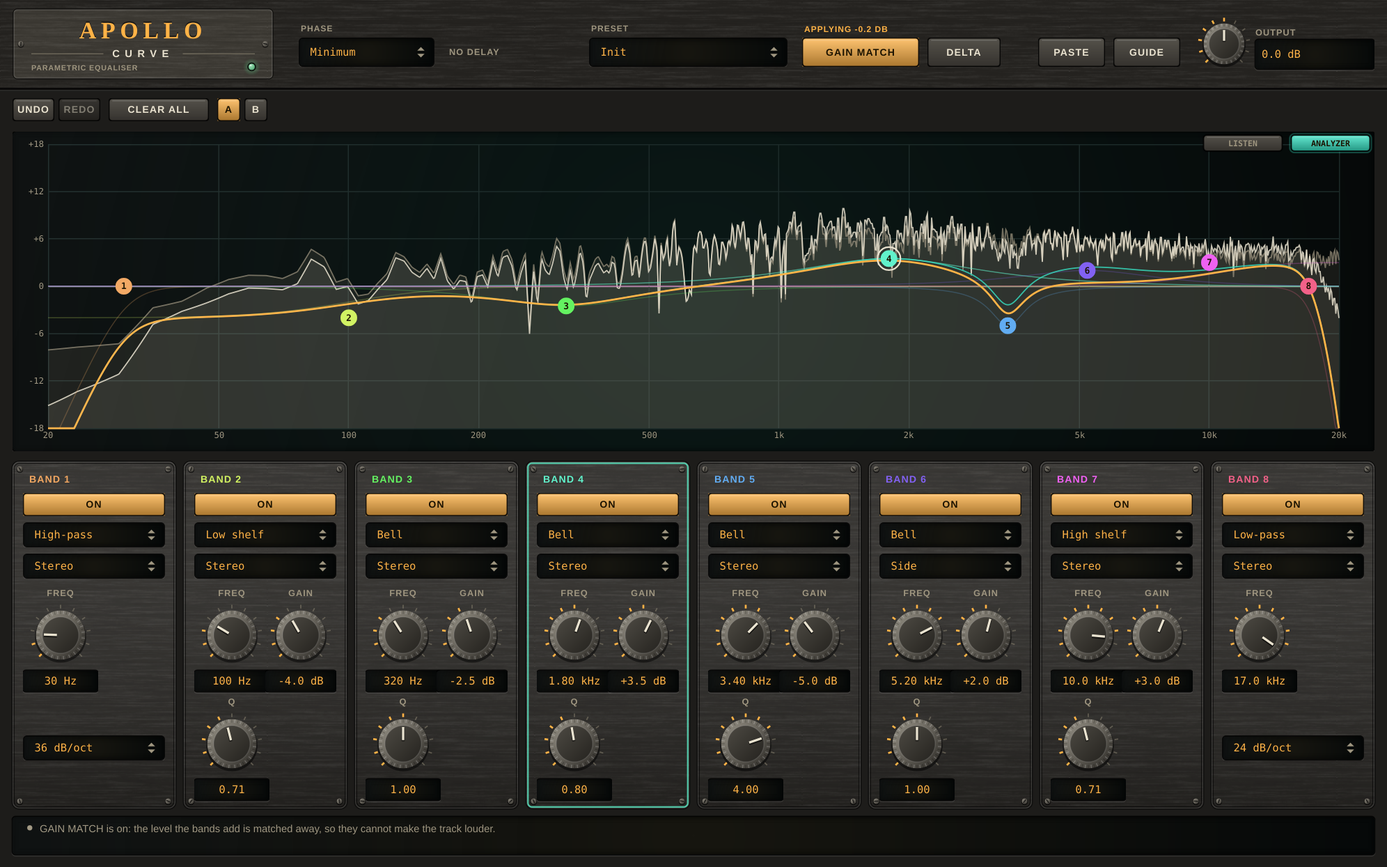
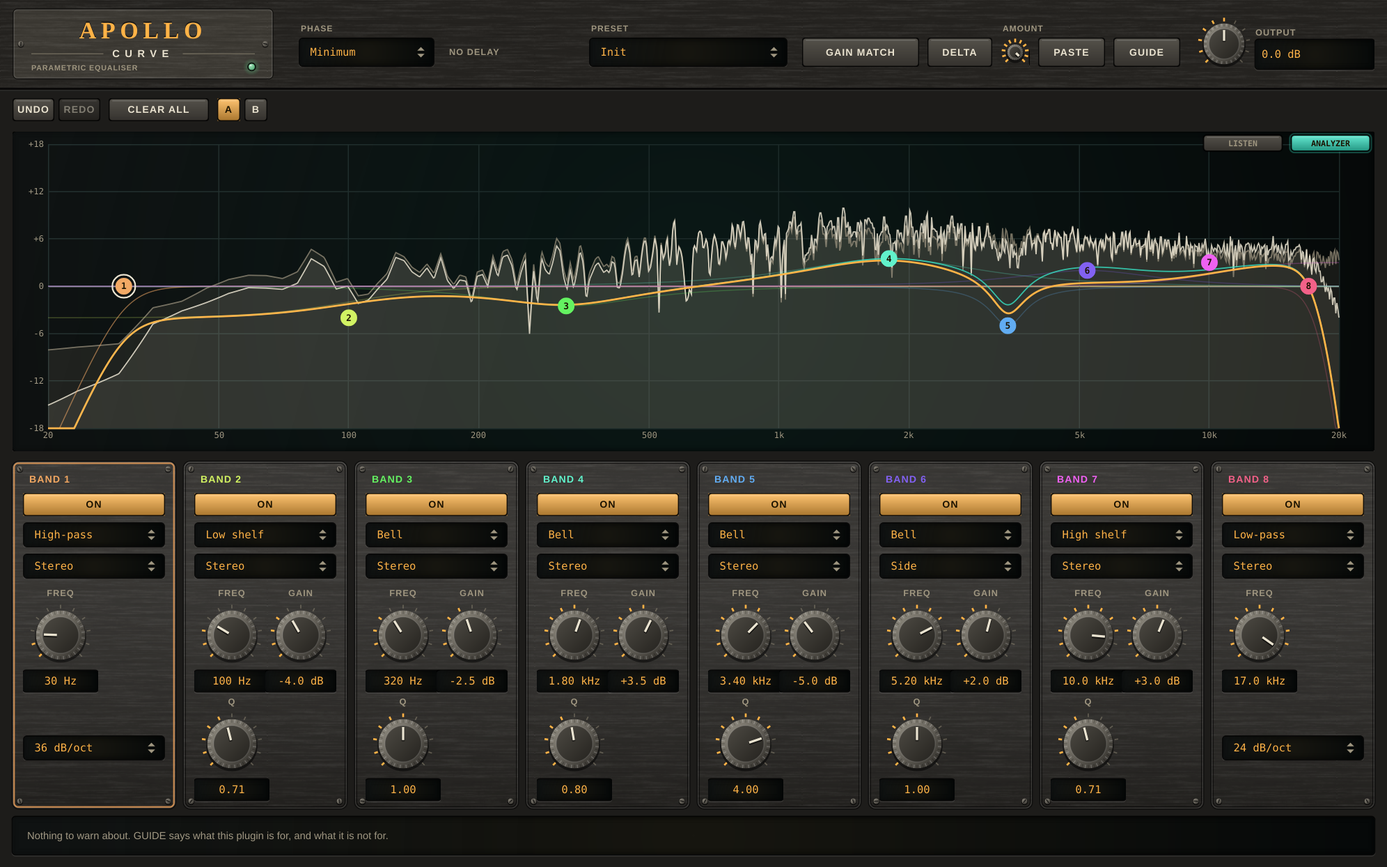
Apollo: PASTE AMOUNT knob scales the gain of pasted bells and shelves
A non-automatable parameter (version 2, default 100 %, so old sessions paste as before) that multiplies the gain PASTE takes from the link text; frequency, width, channels and cuts are unchanged and bands already placed do not move. The strip says the percent when it is below 100.

Claude-Session: https://claude.ai/code/session_01PJDLAgLfcFaZRPW2gHfSC8

Changed region(s): [[0.0311, 0.9462, 0.3424, 0.9767], [0.5602, 0.0305, 0.6847, 0.0916], [0.7159, 0.0305, 0.747, 0.0916]]

diff --git a/plugins/apollo/Tests/UiCheck.cpp b/plugins/apollo/Tests/UiCheck.cpp
@@ -23,7 +23,7 @@ int main()
     proc.prepareToPlay (48000.0, 512);
 
     check (proc.getName() == juce::String (gui::kProjectWord) + " " + gui::kPluginWord, "the reported name is the nameplate's two words");
-    check (proc.getParameters().size() == 3 + 7 * kBands, fmt ("%d parameters: phase, output, gain match and 7 for each of %d bands", proc.getParameters().size(), kBands));
+    check (proc.getParameters().size() == 4 + 7 * kBands, fmt ("%d parameters: phase, output, gain match, paste amount and 7 for each of %d bands", proc.getParameters().size(), kBands));
     check (typeNames.size() == kNumTypes && targetNames.size() == kNumTargets && slopeNames.size() == kNumSlopes && phaseNames.size() == kNumPhases, "the choice lists match the engine's");
     const auto d = readParams (proc.apvts);
     bool defaultsOk = d.phase == Phase::minimum && std::fabs (d.outDb) < 1e-4 && ! d.match;
@@ -108,7 +108,7 @@ int main()
                                           juce::Time::getCurrentTime(), view.listenButton().getCentre(), juce::Time::getCurrentTime(), 1, false));
         check (proc.engine.listen.load() == 2 && ui::hasNote (editor.notes(), "LISTEN is on", ui::Severity::warning), "the LISTEN button plays the selected band alone, and a warning says so");
         view.select (5);
-        check (proc.engine.listen.load() == 5 && proc.getParameters().size() == 3 + 7 * kBands, "LISTEN follows the selected band and is not a parameter");
+        check (proc.engine.listen.load() == 5 && proc.getParameters().size() == 4 + 7 * kBands, "LISTEN follows the selected band and is not a parameter");
     }
 
     check (proc.engine.listen.load() == -1, "closing the editor ends LISTEN");
@@ -268,7 +268,7 @@ int main()
             editor.deltaButton.triggerClick();
             juce::MessageManager::getInstance()->runDispatchLoopUntil (100);
             check (q.engine.delta.load() && ui::hasNote (editor.notes(), "DELTA is on", ui::Severity::warning), "DELTA turns the engine's monitor on, and a warning says you do not hear your track");
-            check (! (bool) q.apvts.state.getProperty ("delta", false) && q.getParameters().size() == 3 + 7 * kBands, "DELTA is not a parameter and not in the state: it is never saved or automated");
+            check (! (bool) q.apvts.state.getProperty ("delta", false) && q.getParameters().size() == 4 + 7 * kBands, "DELTA is not a parameter and not in the state: it is never saved or automated");
         }
         check (! q.engine.delta.load(), "closing the editor ends DELTA: monitoring never outlives its window");
 
@@ -499,6 +499,77 @@ int main()
         check (same, "UNDO takes a preset back as one step");
     }
 
+    // PASTE AMOUNT: the share of a pasted bell's or shelf's gain. It scales the gain only, and what is already placed does not move.
+    std::printf ("\nPASTE AMOUNT\n");
+    {
+        using K = pdsp::LinkBand::Kind;
+        using P = pdsp::LinkBand::Place;
+        const auto bell = [] (double hz, double gain, double qv, P place = P::stereo)
+        {
+            pdsp::LinkBand b;
+            b.kind = K::bell;
+            b.freq = hz;
+            b.gainDb = gain;
+            b.q = qv;
+            b.place = place;
+            return b;
+        };
+        const auto text = [] (const pdsp::LinkBand& b) { return juce::String (pdsp::link::encode ({ b })); };
+        // A new instance with PASTE AMOUNT at `percent`; one -4 dB bell is pasted, and the band it went in comes back.
+        const auto pasteAt = [&] (float percent, const pdsp::LinkBand& b, PasteResult& out)
+        {
+            ApolloProcessor q;
+            q.setPlayConfigDetails (2, 2, 48000.0, 512);
+            q.prepareToPlay (48000.0, 512);
+            setValue (q.apvts, id::pasteAmount, percent);
+            out = pasteBands (q.apvts, text (b));
+            return out.slots.empty() ? BandParams {} : readParams (q.apvts).bands[(size_t) out.slots[0]];
+        };
+        ApolloProcessor d;
+        check (std::fabs (d.apvts.getRawParameterValue (id::pasteAmount)->load() - 100.0f) < 1e-4f && d.apvts.getParameter (id::pasteAmount)->getVersionHint() == 2
+                   && ! d.apvts.getParameter (id::pasteAmount)->isAutomatable(),
+               "PASTE AMOUNT defaults to 100 %, is version 2 (an old session opens at 100) and is not automatable");
+
+        PasteResult r100, r50, r0;
+        const auto full = pasteAt (100.0f, bell (1000.0, -4.0, 1.0), r100);
+        const auto half = pasteAt (50.0f, bell (1000.0, -4.0, 1.0), r50);
+        const auto none = pasteAt (0.0f, bell (1000.0, -4.0, 1.0), r0);
+        check (std::fabs (full.gainDb + 4.0) < 0.01 && r100.percent == 100, fmt ("at 100 %% a -4 dB bell comes in at %.2f dB, as it always did", full.gainDb));
+        check (std::fabs (half.gainDb + 2.0) < 0.01, fmt ("at 50 %% the same bell comes in at %.2f dB: half the gain", half.gainDb));
+        check (r0.slots.size() == 1 && std::fabs (none.gainDb) < 1e-6 && none.on, fmt ("at 0 %% the band is still placed, at %.2f dB", none.gainDb));
+        check (half.on && half.type == Type::bell && std::fabs (half.freqHz - 1000.0) < 0.5 && std::fabs (half.q - 1.0) < 0.01 && half.target == Target::stereo,
+               "at 50 % the frequency, width, channels and type are the pasted ones: only the gain is scaled");
+        PasteResult rMid;
+        const auto mid = pasteAt (50.0f, bell (3200.0, 2.0, 0.9, P::mid), rMid);
+        check (mid.target == Target::mid && std::fabs (mid.gainDb - 1.0) < 0.01, "a Mid bell at 50 % goes on the Mid at half its gain");
+        check (apollo::pasteSaid (r50).find ("at 50% gain") != std::string::npos && apollo::pasteSaid (r100).find ("%") == std::string::npos,
+               "the strip says the amount when it is below 100 %, and says nothing at 100 %");
+
+        // A band placed at 100 % stays as it is when the amount is changed afterwards: PASTE AMOUNT only applies when PASTE is clicked.
+        ApolloProcessor k;
+        k.setPlayConfigDetails (2, 2, 48000.0, 512);
+        k.prepareToPlay (48000.0, 512);
+        PasteResult placed;
+        placed = pasteBands (k.apvts, text (bell (1000.0, -4.0, 1.0)));
+        const int slot = placed.slots.empty() ? -1 : placed.slots[0];
+        setValue (k.apvts, id::pasteAmount, 0.0f);
+        check (slot >= 0 && std::fabs (readParams (k.apvts).bands[(size_t) slot].gainDb + 4.0) < 0.01, "a band already placed keeps its gain when PASTE AMOUNT is changed");
+
+        // The editor: the knob sits between DELTA and PASTE and overlaps nothing; a paste at 50 % says so in the strip.
+        ApolloProcessor e;
+        e.setPlayConfigDetails (2, 2, 48000.0, 512);
+        e.prepareToPlay (48000.0, 512);
+        std::unique_ptr<juce::AudioProcessorEditor> holder (e.createEditor());
+        auto& editor = ui::innerOf<ApolloEditor> (*holder);
+        editor.setVisible (true);
+        check (editor.deltaButton.getRight() <= editor.pasteKnob.getX() && editor.pasteKnob.getRight() < editor.pasteButton.getX()
+                   && editor.pasteKnob.getBottom() <= editor.getHeight(),
+               "the PASTE AMOUNT knob sits between DELTA and PASTE, overlapping nothing");
+        setValue (e.apvts, id::pasteAmount, 50.0f);
+        editor.pasteFromClipboard (text (bell (1000.0, -4.0, 1.0)));
+        check (ui::hasNote (editor.shownNotes(), "at 50% gain", ui::Severity::info), "PASTE at 50 % says so in the strip under the bands");
+    }
+
     // A paste of several bands is one undo step; the UNDO / REDO buttons and Cmd+Z take it back and put it on again. The display's tooltip names Delete.
     std::printf ("\nUndo of a paste, and the UNDO / REDO buttons\n");
     {
@@ -557,7 +628,7 @@ int main()
         check (editor.view.getTooltip().contains ("Delete"), "the display's tooltip says that Delete or Backspace switches the selected band off");
     }
 
-    // A / B: the header-row buttons, each slot keeps its settings, the kept parameters (OUTPUT, PHASE, GAIN MATCH) stay across a switch, and the active slot is saved.
+    // A / B: the header-row buttons, each slot keeps its settings, the kept parameters (OUTPUT, PHASE, GAIN MATCH, PASTE AMOUNT) stay across a switch, and the active slot is saved.
     std::printf ("\nA / B\n");
     {
         ApolloProcessor q;

diff --git a/plugins/apollo/Source/Parameters.h b/plugins/apollo/Source/Parameters.h
@@ -13,7 +13,7 @@ namespace apollo
 {
 namespace id
 {
-inline const juce::String phase { "phase" }, out { "out" }, match { "match" };
+inline const juce::String phase { "phase" }, out { "out" }, match { "match" }, pasteAmount { "pasteAmount" };
 }
 
 struct BandIds
@@ -89,6 +89,9 @@ inline juce::AudioProcessorValueTreeState::ParameterLayout createLayout()
     p.push_back (std::make_unique<AudioParameterFloat> (ParameterID { id::out, 1 }, "Output", NormalisableRange<float> (-24.0f, 24.0f, 0.1f), 0.0f, Attr().withStringFromValueFunction (db)));
     // Version 2: a session saved before it opens with GAIN MATCH off, which is how it always sounded.
     p.push_back (std::make_unique<AudioParameterBool> (ParameterID { id::match, 2 }, "Gain Match", false));
+    // Version 2: a session saved before it opens at 100 %, which is how PASTE always took the gain. Not automatable: it only matters when PASTE is clicked.
+    p.push_back (std::make_unique<AudioParameterFloat> (ParameterID { id::pasteAmount, 2 }, "Paste Amount", NormalisableRange<float> (0.0f, 100.0f, 1.0f), 100.0f,
+                                                         Attr().withLabel ("%").withAutomatable (false)));
     return { p.begin(), p.end() };
 }
 
@@ -149,6 +152,7 @@ struct PasteResult
     int skipped = 0;        // a harmonic fill (Hephaestus'), a band on one channel (Apollo has Stereo, Mid and Side), or no free band left
     bool curve = false;     // the text carried a target curve (it becomes the display's reference: see CurveView)
     std::string curveName;
+    int percent = 100;      // PASTE AMOUNT when it was clicked: the share of each bell's or shelf's gain that came in
 };
 
 // A band is free for a paste when it does nothing now (off, or a bell or shelf at 0 dB): the default high-pass and low-pass, the shelves and the bells all are.
@@ -181,6 +185,9 @@ inline PasteResult pasteBands (juce::AudioProcessorValueTreeState& s, const juce
     ui::beginUndoStep (s, "Paste bands");
     result.curve = curve.valid();
     result.curveName = curve.name;
+    const float amount = s.getRawParameterValue (id::pasteAmount)->load();
+    result.percent = (int) std::lround (amount);
+    const double strength = amount / 100.0; // 1.0 at the default: the gain is then what the link says, bit for bit
     std::array<bool, kBands> used {};
     using K = pdsp::LinkBand::Kind;
     using P = pdsp::LinkBand::Place;
@@ -206,7 +213,7 @@ inline PasteResult pasteBands (juce::AudioProcessorValueTreeState& s, const juce
         const auto& ids = bandIds (slot);
         setValue (s, ids.type, (float) (int) type);
         setValue (s, ids.freq, (float) std::clamp (b.freq, kMinHz, kMaxHz));
-        setValue (s, ids.gain, hasGain (type) ? (float) std::clamp (b.gainDb * b.amount, -kMaxGainDb, kMaxGainDb) : 0.0f); // amount: how much of the gain to take
+        setValue (s, ids.gain, hasGain (type) ? (float) std::clamp (b.gainDb * b.amount * strength, -kMaxGainDb, kMaxGainDb) : 0.0f); // amount: how much of the gain to take; PASTE AMOUNT scales it again
         setValue (s, ids.q, (float) std::clamp (hasSlope (type) ? 0.7071 : b.q, 0.1, 10.0));
         setValue (s, ids.slope, (float) std::clamp ((int) std::lround (b.slopeDbPerOct / 12.0) - 1, 0, kNumSlopes - 1));
         setValue (s, ids.target, (float) (b.place == P::mid ? (int) Target::mid : b.place == P::side ? (int) Target::side : (int) Target::stereo));
@@ -229,6 +236,8 @@ inline std::string pasteSaid (const PasteResult& r)
         for (size_t i = 0; i < r.slots.size(); ++i)
             said += (i ? ", " : "") + std::to_string (r.slots[i] + 1);
         said += ")";
+        if (r.percent < 100)
+            said += " at " + std::to_string (r.percent) + "% gain";
     }
     if (r.curve)
         said += " and the target curve" + (r.curveName.empty() ? std::string() : ": " + r.curveName);

diff --git a/plugins/apollo/Source/PluginEditor.cpp b/plugins/apollo/Source/PluginEditor.cpp
@@ -42,6 +42,8 @@ ApolloEditor::ApolloEditor (ApolloProcessor& p)
                                     "stereo image stay together), at the price of about 48 ms of delay (the host compensates) and a softer low end (about 12 Hz resolution). "
                                     "Changing it while playing restarts the equaliser."),
       outKnob (p.apvts, id::out, "OUTPUT", "Output gain, after every band."),
+      pasteKnob (p.apvts, id::pasteAmount, "", "PASTE AMOUNT: how much of the gain of each pasted bell and shelf comes in, when PASTE is clicked (100 % is all of it, the default). "
+                                                "Frequencies, widths, channels and cuts are taken as they are, and the reference curve is not scaled. Bands already placed do not change."),
       view (p.apvts, [&p] { return p.getSampleRate(); }, p.tapIn, p.tapOut),
       presetBox (p, presets(), "The bands it does not use go back to 0 dB. PHASE, OUTPUT and GAIN MATCH are kept."),
       matchButton (p.apvts, id::match, "GAIN MATCH", "Takes the level the bands add or take away off again, slowly (about 0.6 s, within 12 dB), so a boost that is merely louder is not mistaken for better. "
@@ -71,7 +73,7 @@ ApolloEditor::ApolloEditor (ApolloProcessor& p)
         clearBands (proc.apvts);
         view.setListen (false); // LISTEN follows a band; a band that is off is not heard alone
     };
-    for (auto* c : std::initializer_list<juce::Component*> { &view, &phaseBox, &outKnob, &presetBox, &matchButton, &undoButtons, &abButtons, &clearAllButton, &deltaButton, &pasteButton, &guideButton })
+    for (auto* c : std::initializer_list<juce::Component*> { &view, &phaseBox, &outKnob, &pasteKnob, &presetBox, &matchButton, &undoButtons, &abButtons, &clearAllButton, &deltaButton, &pasteButton, &guideButton })
         addAndMakeVisible (*c);
     startTimerHz (kTimerHz);
     showTypes();
@@ -107,7 +109,11 @@ void ApolloEditor::resized()
     row.removeFromLeft (14);
     matchButton.setBounds (row.removeFromLeft (112));
     row.removeFromLeft (8);
-    deltaButton.setBounds (row.removeFromLeft (70));
+    deltaButton.setBounds (row.removeFromLeft (62));
+    row.removeFromLeft (8);
+    const auto pasteKnobBounds = row.removeFromLeft (28); // the 8 px left before PASTE
+    pasteKnob.setBounds (pasteKnobBounds);
+    pasteLabel = { pasteKnobBounds.getX() + 2, pasteKnobBounds.getY() - 15, 60, 12 };
 
     bounds.removeFromTop (10);
     auto undoRow = bounds.removeFromTop (undoRowHeight);
@@ -205,6 +211,7 @@ void ApolloEditor::paint (juce::Graphics& g)
     hw::drawNameplate (g, nameplate, gui::kProjectWord, gui::kPluginWord, "Parametric equaliser", true, 25.0f);
     hw::drawLabel (g, "Preset", presetLabel, juce::Justification::left, colours::dim, 9.0f);
     hw::drawLabel (g, "Phase", phaseLabel, juce::Justification::left, colours::dim, 9.0f);
+    hw::drawLabel (g, "Amount", pasteLabel, juce::Justification::left, colours::dim, 9.0f);
     const int latency = proc.engine.latencySamples.load();
     if (proc.apvts.getRawParameterValue (id::match)->load() > 0.5f) // what GAIN MATCH is doing to the level right now
         hw::drawLabel (g, "Applying " + juce::String (proc.engine.matchDb.load (std::memory_order_relaxed), 1) + " dB",

diff --git a/plugins/apollo/Source/Presets.h b/plugins/apollo/Source/Presets.h
@@ -7,7 +7,7 @@
 #include <pantheon/ui/Presets.h>
 
 // Starting points for the jobs an equaliser is most often used for. A preset sets the bands it needs; the others go back to their defaults (all at 0 dB, so they do
-// nothing). PHASE, OUTPUT and GAIN MATCH are kept: they are how the equaliser works and how you judge it, not what it does to this sound. Every number here is a place to begin: move the node until
+// nothing). PHASE, OUTPUT, GAIN MATCH and PASTE AMOUNT are kept: they are how the equaliser works and how you judge it, not what it does to this sound. Every number here is a place to begin: move the node until
 // it sounds right, and cut before you boost.
 namespace apollo
 {
@@ -57,6 +57,6 @@ inline const std::vector<ui::Preset>& presets()
     return list;
 }
 
-// A preset leaves how the equaliser works, and how you judge it, alone.
-inline bool keepsParameter (const juce::String& pid) { return pid == id::phase || pid == id::out || pid == id::match; }
+// A preset leaves how the equaliser works, how you judge it, and how much PASTE takes, alone.
+inline bool keepsParameter (const juce::String& pid) { return pid == id::phase || pid == id::out || pid == id::match || pid == id::pasteAmount; }
 } // namespace apollo

diff --git a/plugins/apollo/Source/PluginEditor.h b/plugins/apollo/Source/PluginEditor.h
@@ -34,6 +34,7 @@ public:
     std::array<std::unique_ptr<Strip>, apollo::kBands> strips;
     ui::Choice phaseBox;
     ui::Knob outKnob;
+    ui::Knob pasteKnob; // PASTE AMOUNT, beside PASTE: how much of a pasted bell's or shelf's gain comes in
     apollo::gui::CurveView view;
     ui::PresetBox presetBox;
     ui::Toggle matchButton;
@@ -56,7 +57,7 @@ private:
     ApolloProcessor& proc;
     HardwareLookAndFeel look;
     juce::TooltipWindow tooltips { this, 600 };
-    juce::Rectangle<int> nameplate, presetLabel, phaseLabel, latencyLabel, noteStrip, stripArea;
+    juce::Rectangle<int> nameplate, presetLabel, phaseLabel, latencyLabel, pasteLabel, noteStrip, stripArea;
     int shownTypes = -1;
     std::string pasteSaid;
     int pasteTicks = 0; // timer ticks left to show pasteSaid

diff --git a/plugins/apollo/README.md b/plugins/apollo/README.md
@@ -13,13 +13,13 @@ by loudness, and **PASTE** takes the bands and the target curve that [Themis](..
 
 *Headless render of the editor (the hardware-style interface shared with the other plugins) over a programme of a low note with its harmonics on noise that
 falls with frequency. Band 1 is a 36 dB/oct high-pass, band 2 a low shelf of -4 dB, band 4 (selected, ringed) a bell of +3.5 dB at 1.8 kHz, band 5 a narrow dip at 3.4 kHz
-and band 6 a bell on the **Side** only, whose response is the teal curve; above the display the row holds UNDO / REDO, CLEAR ALL and the **A / B** pair (A lit, as on opening); the amber curve is the response of the settings, and the cream and dim traces are the analyser after
+and band 6 a bell on the **Side** only, whose response is the teal curve; above the display the row holds UNDO / REDO, CLEAR ALL and the **A / B** pair (A lit, as on opening); in the header the **AMOUNT** knob beside PASTE is the PASTE AMOUNT, at 100 % as on opening; the amber curve is the response of the settings, and the cream and dim traces are the analyser after
 and before the bands. **GAIN MATCH** is on and says what it is applying in the header (a fraction of a dB here: the cuts and the boosts nearly cancel). **LISTEN** (off) and ANALYZER are the two buttons in the display's corner. Regenerate with the commands
 under "Development".*
 
 ![Paste from Themis](docs/themis.png)
 
-*What PASTE does with Themis' **Copy EQ**: a low cut, a low shelf, two bells and a high shelf went into the free bands (1, 2, 3, 4 and 7, the first one selected), and the
+*What PASTE does with Themis' **Copy EQ**: a low cut, a low shelf, two bells and a high shelf went into the free bands (1, 2, 3, 4 and 7, the first one selected) with PASTE AMOUNT (the AMOUNT knob beside PASTE) at 100 %, and the
 target curve that came with them is the dashed teal line behind the analyser, drawn at the level of this track (a flat line here, because the example target falls at
 the same 4.5 dB per octave as the analyser's tilt). The strip under the bands says what was pasted for eight seconds. The target here is made up by the snapshot, in the format
 Themis writes (see [BandLink.h](../../shared/dsp/include/pantheon/dsp/BandLink.h)); it is not one of Themis' own.*
@@ -34,7 +34,7 @@ Themis writes (see [BandLink.h](../../shared/dsp/include/pantheon/dsp/BandLink.h
 | | |
 |---|---|
 | **Bands** | Eight, always there. A new instance opens with a high-pass and a low-pass at the ends (off), two shelves and four bells, all at 0 dB, so dragging a node does something at once. A band is taken out of the sound by switching its ON off (its settings stay): Delete or Backspace on the selected band, or **CLEAR ALL** (above the display) for every band at once, one undo step. |
-| **Undo** | **UNDO / REDO** (above the display; Cmd+Z and Shift+Cmd+Z while the editor has the keyboard focus, Ctrl on other systems) take back and redo changes to the controls, a dragged node, a wheel step on a Q, a band switched on or off, a pasted set of bands, a preset and CLEAR ALL, each as one step; they are not kept with the session. The shared kit does it (`Undo.h`); the processor owns the undo history. **A / B** (beside them) holds two settings with one live: switching keeps what you have set in the one you leave, while OUTPUT, PHASE and GAIN MATCH stay as they are; a switch is one undo step, and only the active slot is kept with the session (`AbCompare.h`). |
+| **Undo** | **UNDO / REDO** (above the display; Cmd+Z and Shift+Cmd+Z while the editor has the keyboard focus, Ctrl on other systems) take back and redo changes to the controls, a dragged node, a wheel step on a Q, a band switched on or off, a pasted set of bands, a preset and CLEAR ALL, each as one step; they are not kept with the session. The shared kit does it (`Undo.h`); the processor owns the undo history. **A / B** (beside them) holds two settings with one live: switching keeps what you have set in the one you leave, while OUTPUT, PHASE, GAIN MATCH and PASTE AMOUNT stay as they are; a switch is one undo step, and only the active slot is kept with the session (`AbCompare.h`). |
 | **Type** | Bell (raises or cuts around a frequency), Low shelf, High shelf, High-pass, Low-pass, Notch. |
 | **Freq / Gain / Q** | 20 Hz to 20 kHz; -18 to +18 dB (bells and shelves); Q 0.1 to 10 (the width of a bell or notch, the turn of a shelf). |
 | **Slope** | For a high-pass or low-pass: 12, 24, 36 or 48 dB per octave (Butterworth; -3 dB at the corner). |
@@ -44,8 +44,8 @@ Themis writes (see [BandLink.h](../../shared/dsp/include/pantheon/dsp/BandLink.h
 | **Gain Match** | Takes the level the bands add or take away off again, slowly (about 0.6 s), by at most 12 dB either way, so a boost that is merely louder is not mistaken for better. Off by default; while it is on, the gain it applies is read out above its button. Kept by presets. |
 | **Delta** | Plays only what the bands change (output minus input). Not saved, not automatable, off when the window closes. In linear phase the input is delayed like the output, so it is exact. |
 | **Listen** | **LISTEN** (a button in the corner of the display, beside ANALYZER) plays the selected band's region alone: the sound after the bands through a band-pass at that band's frequency and width, and it follows the selected band. Not saved, not automatable, off when the window closes. |
-| **Paste** | **PASTE** (header) takes what Themis copied: **COPY** on a master-plan item or **Copy EQ**. Each band goes into a free band (one that does nothing) with its type, frequency, gain, Q, slope and channels (Mid or Side stays Mid or Side; a low cut is a high-pass); a harmonic-fill band (Hephaestus') and a band on the left or right alone (Iris') are left out, and the strip says so. The target curve of Copy EQ becomes a dashed **reference** behind the analyser, at the level of this track; right-click the display to clear it. Kept with the session. |
-| **Presets** | Nine starting points (Init, Low Cut, Vocal Presence, Mud Cut, Air Lift, Bass Weight, Master Smile, Sides Open Top, Telephone). A preset sets the bands it needs; the others go back to 0 dB. PHASE, OUTPUT and GAIN MATCH are kept. |
+| **Paste** | **PASTE** (header) takes what Themis copied: **COPY** on a master-plan item or **Copy EQ**. Each band goes into a free band (one that does nothing) with its type, frequency, gain, Q, slope and channels (Mid or Side stays Mid or Side; a low cut is a high-pass); a harmonic-fill band (Hephaestus') and a band on the left or right alone (Iris') are left out, and the strip says so. The target curve of Copy EQ becomes a dashed **reference** behind the analyser, at the level of this track; right-click the display to clear it. **PASTE AMOUNT** (the knob beside PASTE, 0 to 100 %, 100 by default) sets how much of each pasted bell's and shelf's gain comes in, when PASTE is clicked; frequencies, widths, channels and cuts are taken as Themis wrote them, the reference curve is not scaled, and bands already placed do not change. Kept with the session. |
+| **Presets** | Nine starting points (Init, Low Cut, Vocal Presence, Mud Cut, Air Lift, Bass Weight, Master Smile, Sides Open Top, Telephone). A preset sets the bands it needs; the others go back to 0 dB. PHASE, OUTPUT, GAIN MATCH and PASTE AMOUNT are kept. |
 
 On the display, drag a node sideways for the frequency and up and down for the gain; the wheel over a node changes the Q; a double click on a node switches the band
 on or off, and a double click on empty glass adds a bell there in the first free band. Select a band and press Delete or Backspace to switch it off (the selection moves to the next band that is on); **CLEAR ALL** switches every band off in one undo step and is greyed out while none is on. The amber curve is the response of the settings; a teal one appears when a band works on the sides only (it is the sides' response). The curve is the
@@ -86,6 +86,7 @@ filter that runs, not a drawing of it.
 - Gain Match: a +9 dB low shelf at 4 kHz on noise is 3.01 dB louder; with GAIN MATCH on it is +0.03 dB (minimum phase) and +0.02 dB (linear) after 5 s, the readout saying -3.00 dB. A tone cut by 18 dB comes out
   -5.96 dB (minimum) and -5.95 dB (linear): the match made up 12 dB and no more. OUTPUT +6 dB on top of the match is +6.03 dB. With it on, blocks of 1, 7, 333 and 4096 samples give the output of 512, bit for bit, in both phase modes.
 - Delta: a +9 dB bell on a tone at its own frequency leaves +5.19 dB (the wanted 20 log10 (10^(9/20) - 1)), in both phase modes; with no band on it is silence, exactly (largest sample 0).
+- PASTE AMOUNT (`ApolloUiCheck`, 48 kHz): a -4 dB bell pasted at 100 % comes in at -4.00 dB, at 50 % at -2.00 dB, and at 0 % it is placed at 0.00 dB; its frequency, width, type and channels are the pasted ones, and a band placed earlier keeps its gain when the amount is changed.
 
 ## Limits
 

diff --git a/plugins/apollo/CLAUDE.md b/plugins/apollo/CLAUDE.md
@@ -66,7 +66,7 @@ curve's +-18 dB. A change to `SpectrumAnalyzer.h` is checked here by `ApolloUiCh
 
 **GAIN MATCH and DELTA compare with the input as the output hears it.** In linear phase the dry input is delayed by the latency in a ring (`dryL` / `dryR`, sized in `prepare()`; the Convolver's idle delay is the same integer, so DELTA with no band on is exactly 0); in minimum phase it is the input. The energies in and out are summed per sample and read at the tick (never per block: test [9] pins bit-for-bit block independence with the match on); the match gain is exactly 1.0 with the parameter off, so the idle output stays bit-exact (test [2]). It is applied before OUTPUT. DELTA is `Engine::delta`, an atomic the editor sets, not a parameter: never saved, ended by the editor's destructor, and it shows in the notes.
 
-**PASTE takes free bands, never bands in use.** `pasteBands()` (Parameters.h) reads `pdsp::link::decode`; a band is free when `isIdentity()` (so the default high-pass, low-pass, shelves and bells all are), kinds go to their own end first (`slotOrder`), a link `lowCut` is Apollo's high-pass, left and right bands and fill bands are skipped and counted. The `curve` line becomes the display's reference (`CurveView::setReference`, kept in the state as `referenceCurve`, drawn dashed at the track's level: the analyser's mean over 200 Hz to 5 kHz without the tilt, which is added back). Themis' wording names Apollo (`ThemisUi.h`'s `linkDestination`): run Themis' `ThemisSmoke` when you change what it writes.
+**PASTE takes free bands, never bands in use.** `pasteBands()` (Parameters.h) reads `pdsp::link::decode`; a band is free when `isIdentity()` (so the default high-pass, low-pass, shelves and bells all are), kinds go to their own end first (`slotOrder`), a link `lowCut` is Apollo's high-pass, left and right bands and fill bands are skipped and counted. The `curve` line becomes the display's reference (`CurveView::setReference`, kept in the state as `referenceCurve`, drawn dashed at the track's level: the analyser's mean over 200 Hz to 5 kHz without the tilt, which is added back). PASTE AMOUNT (`id::pasteAmount`, read in `pasteBands`) multiplies the gain of a bell or shelf by its percentage and nothing else; the reference curve is not scaled. Themis' wording names Apollo (`ThemisUi.h`'s `linkDestination`): run Themis' `ThemisSmoke` when you change what it writes.
 
 **LISTEN is `Engine::listen`, an atomic like `delta`.** The band (0 to 7, or -1) whose region is heard alone, through a band-pass at its frequency and Q placed after the bands and GAIN MATCH, before OUTPUT. The display's LISTEN button (`CurveView::setListen`, which follows `select()`) sets it through `onListen`; the editor's destructor ends it; it shows in the notes. Double-clicking empty glass calls `CurveView::addBandAt` (first free bell slot, `slotOrder`). Every change of a parameter from the display that is not a drag goes through `setWithGesture`.
 
@@ -80,13 +80,13 @@ curve's +-18 dB. A change to `SpectrumAnalyzer.h` is checked here by `ApolloUiCh
 
 **Undo.** The processor owns `juce::UndoManager undo`, declared before `apvts` and handed to it (`shared/ui` `Undo.h`, opt-in). A gesture that moves several parameters opens its step first with `ui::beginUndoStep`: a preset (`setCurrentProgram`), PASTE, `clearBands`, a node drag (`CurveView::mouseDown`), a double-click on empty glass (`addBandAt`), a wheel step, Delete. A new gesture that changes more than one parameter needs one too, or it merges into the step before it.
 
-**A / B** is `ui::AbCompare` `ab`, declared after `apvts` with `apollo::keepsParameter`, so PHASE, OUTPUT and GAIN MATCH stay as they are across a switch (as across a preset). A switch to a slot that has settings is one undo step; the active slot is saved as `abSlot` (a session without it opens on A), the two slots are not. The buttons are `ui::AbButtons` in the row above the display, after CLEAR ALL.
+**A / B** is `ui::AbCompare` `ab`, declared after `apvts` with `apollo::keepsParameter`, so PHASE, OUTPUT, GAIN MATCH and PASTE AMOUNT stay as they are across a switch (as across a preset). A switch to a slot that has settings is one undo step; the active slot is saved as `abSlot` (a session without it opens on A), the two slots are not. The buttons are `ui::AbButtons` in the row above the display, after CLEAR ALL.
 
 **Presets** are `ui::Preset`s in `Source/Presets.h` (the settings as real values, a name, a one-line purpose of at most 140 characters); the processor's `ui::Programs` applies them (every parameter that the plugin's `keepsParameter` does not claim goes back to its default first, so a preset does not inherit the last one) and keeps the chosen index in the session's state
 (`program`); the editor's `ui::PresetBox` lists them and `sync()`s with the host. A new parameter needs thinking about in each preset: it goes back to its default unless the preset lists it. UiCheck pins that every preset applies, what one specific preset sets, what is kept, and that the box fits the header.
 
 **Parameters.** Ids (`apollo::id`, `bandIds (i)`: `b1_on` ... `b8_target`) are stored in sessions and automation: never rename or remove one, nor reorder the choice lists (`typeNames`, `targetNames`, `slopeNames`,
-`phaseNames` follow the enums). All are `ParameterID` version 1 except `match` (version 2, off: a session saved before it sounds as it did; a preset keeps it); a new one needs a higher version, an entry in `readParams()` and a place in the editor.
+`phaseNames` follow the enums). All are `ParameterID` version 1 except `match` (version 2, off: a session saved before it sounds as it did; a preset keeps it) and `pasteAmount` (version 2, 100 %, not automatable; a preset keeps it); a new one needs a higher version, an entry in `readParams()` (or in `pasteBands` when only PASTE reads it) and a place in the editor.
 
 ## DRY: where each thing lives
 
